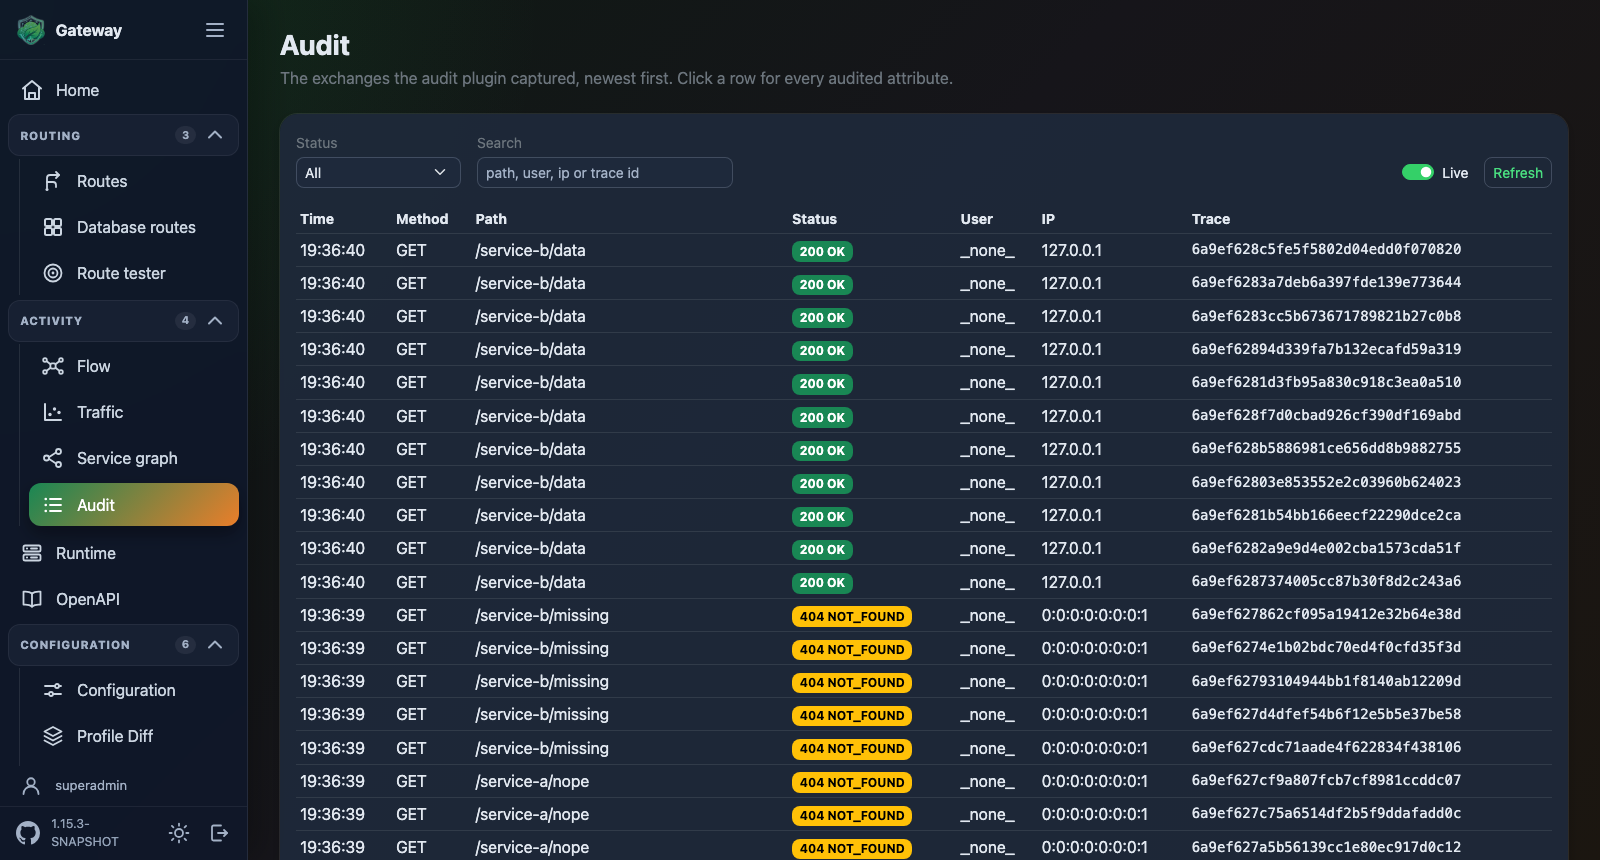
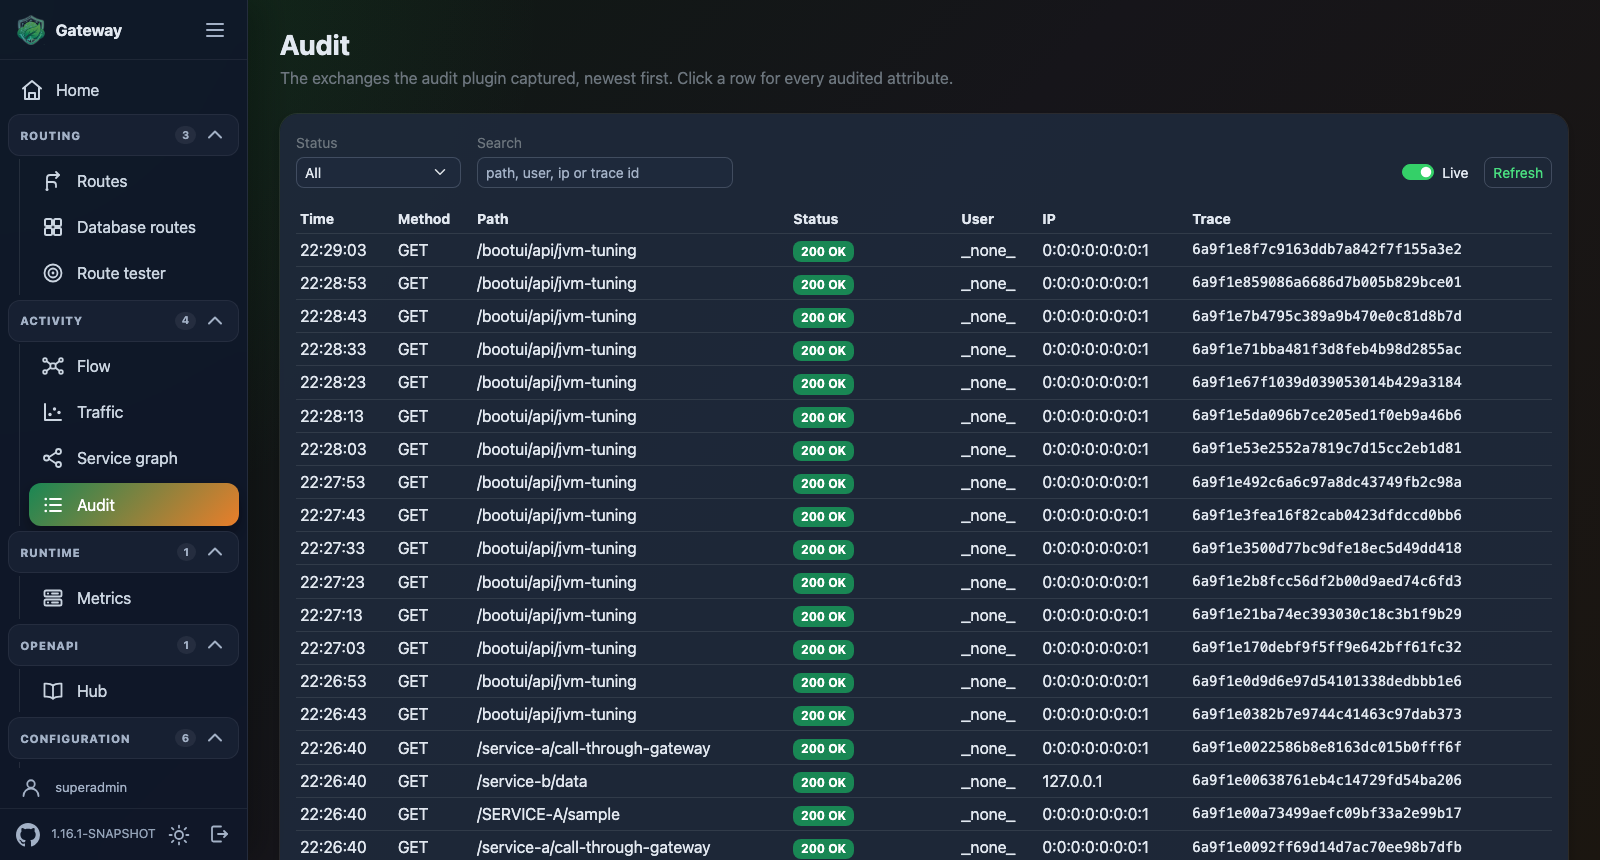
feat(ui): gather Runtime and OpenAPI into groups of their own
Both sat at the top level between two folding groups, which read as leftovers
rather than as entries. They now fold as well: Runtime holds Metrics, OpenAPI
holds Hub. Every entry but Home is under a heading, and the menu has one shape
throughout.

The pages keep their own headings, Runtime and OpenAPI: the group names the area
and the entry names the view within it.

diff --git a/spring-cloud-gateway-ui/src/main/java/ch/nexsol/gateway/ui/autoconfigure/GatewayUiAutoConfiguration.java b/spring-cloud-gateway-ui/src/main/java/ch/nexsol/gateway/ui/autoconfigure/GatewayUiAutoConfiguration.java
@@ -127,6 +127,16 @@ public class GatewayUiAutoConfiguration {
 	static final String CONFIGURATION = "Configuration";
 
 	/**
+	 * Heading the technical health of the instances folds under.
+	 */
+	static final String RUNTIME = "Runtime";
+
+	/**
+	 * Heading the API contracts fold under.
+	 */
+	static final String OPENAPI = "OpenAPI";
+
+	/**
 	 * Registers the side-menu registry aggregating every contributed {@link NavItem}.
 	 * @param navItems the provider over every {@link NavItem} bean in the context
 	 * @return the menu registry
@@ -420,7 +430,7 @@ public class GatewayUiAutoConfiguration {
 			 */
 			@Bean
 			NavItem instancesNavItem() {
-				return new NavItem("instances", "Runtime", "icon-server", "/ui/metrics/instances", 21);
+				return new NavItem("instances", "Metrics", "icon-server", "/ui/metrics/instances", 21, RUNTIME);
 			}
 
 			/**
@@ -672,7 +682,7 @@ public class GatewayUiAutoConfiguration {
 		 */
 		@Bean
 		NavItem openapiNavItem() {
-			return new NavItem("openapi", "OpenAPI", "icon-book", "/ui/openapi", 25);
+			return new NavItem("openapi", "Hub", "icon-book", "/ui/openapi", 25, OPENAPI);
 		}
 
 		/**

diff --git a/spring-cloud-gateway-ui/src/test/java/ch/nexsol/gateway/ui/metrics/InstanceMetricsControllerTests.java b/spring-cloud-gateway-ui/src/test/java/ch/nexsol/gateway/ui/metrics/InstanceMetricsControllerTests.java
@@ -49,7 +49,7 @@ class InstanceMetricsControllerTests {
 			.value((body) -> assertThat(body).contains("gw-sidebar")
 				.contains("id=\"gi-instances\"")
 				.contains("id=\"gi-coverage\"")
-				.contains(">Runtime</span>"));
+				.contains(">Metrics</span>"));
 	}
 
 	@Test

diff --git a/spring-cloud-gateway-ui/README.md b/spring-cloud-gateway-ui/README.md
@@ -33,11 +33,11 @@ what the application actually runs.
 | [Database routes](#database-routes-view) | `/ui/routes/db` | `spring-cloud-gateway-routes-database` is present |
 | [Route tester](#route-tester) | `/ui/routes/test` | the gateway route table type is present |
 | [Traffic](#traffic) | `/ui/metrics` | Micrometer is present |
-| [Runtime](#runtime) | `/ui/metrics/instances` | Micrometer is present and `...metrics.instance.enabled` is not `false` |
+| [Runtime](#runtime) — *Metrics* in the menu | `/ui/metrics/instances` | Micrometer is present and `...metrics.instance.enabled` is not `false` |
 | [Service graph](#service-graph) | `/ui/service-graph` | `spring-cloud-gateway-service-graph-core` is present |
 | [Flow](#flow) | `/ui/service-graph/flow` | `spring-cloud-gateway-service-graph-core` is present |
 | [Configuration, and five others](#introspection) | `/ui/insights/*` | Actuator is on the classpath |
-| [OpenAPI](#openapi) | `/ui/openapi` | `spring-cloud-gateway-hub-openapi` is present and enabled |
+| [OpenAPI](#openapi) — *Hub* in the menu | `/ui/openapi` | `spring-cloud-gateway-hub-openapi` is present and enabled |
 | [Audit](#audit) | `/ui/audit` | `spring-cloud-gateway-audit-core` is present and `...audit.enabled` is not `false` |
 
 ## Configuration
@@ -857,7 +857,7 @@ Icons reference the SVG sprite declared in `templates/dashboard/fragments/layout
 (`icon-home`, `icon-plugin`, `icon-route`, `icon-target`, `icon-chart`, `icon-book`,
 `icon-list`, `icon-graph`, `icon-flow`, `icon-server`). The built-in entries are ordered
 `home` (0), `Routes` (5), `Database routes` (10), `Route tester` (15), `Flow` (19), `Traffic`
-(20), `Runtime` (21), `Service graph` (22), `OpenAPI` (25) and `Audit` (30), leaving room for
+(20), `Metrics` (21), `Service graph` (22), `Hub` (25) and `Audit` (30), leaving room for
 your own in between. A group sits where its first entry would have sat, so `Routing` opens at 5
 and `Activity` at 19.
 
@@ -878,6 +878,8 @@ The five-argument form is the same entry with no group. The console ships two gr
 | --- | --- | --- |
 | **Routing** | [Routes](#routes), [Database routes](#database-routes-view), [Route tester](#route-tester) | What the gateway is configured to do |
 | **Activity** | [Flow](#flow), [Traffic](#traffic), [Service graph](#service-graph), [Audit](#audit) | What it has carried, and what it kept of it |
+| **Runtime** | [Metrics](#runtime) | The technical health of each instance |
+| **OpenAPI** | [Hub](#openapi) | The contracts served through the gateway |
 | **Configuration** | [The six introspection views](#introspection) | What it is made of |
 
 A group folds and remembers whether it was folded, and is rendered open when the page being read
